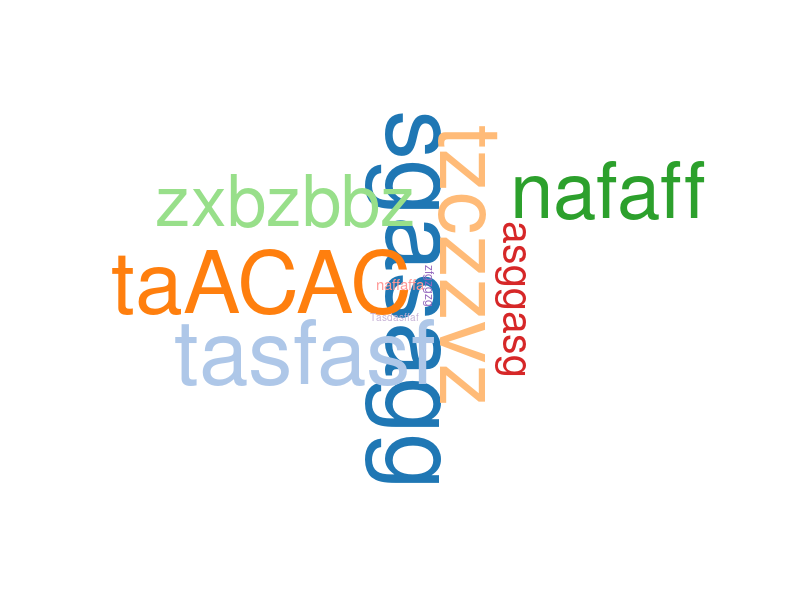
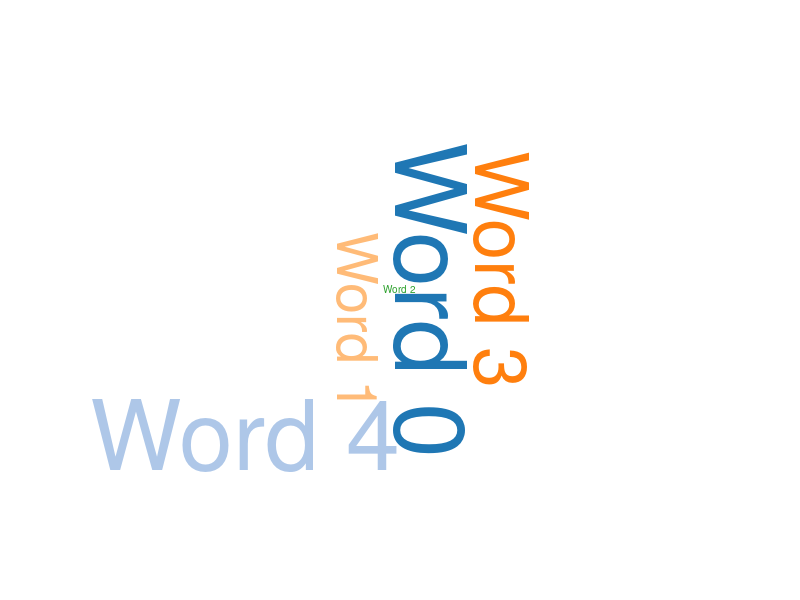
Generate clouds_controller

Changed region(s): [[0.0938, 0.18, 0.875, 0.81]]

diff --git a/app/controllers/votes_controller.rb b/app/controllers/votes_controller.rb
@@ -5,8 +5,8 @@ class VotesController < ApplicationController
   def new
     return redirect_to root_path if Quote.count < 2
 
-    quote_1 = Quote.order('RANDOM()').first
-    quote_2 = Quote.where.not(id: quote_1.id).order('RANDOM()').first
+    quote_1 = current_user.quotes.order('RANDOM()').first
+    quote_2 = current_user.quotes.where.not(id: quote_1.id).order('RANDOM()').first
 
     @visits = (cookies[:visits] || 0).to_i
     if @visits = (cookies[:visits] || 0).to_i >= 4
@@ -14,7 +14,7 @@ class VotesController < ApplicationController
     else @visits = (cookies[:visits] || 0).to_i
     end
 
-    @quotes = Quote.all.order(:score).limit(10)
+    @quotes = current_user.quotes.order(:score).limit(10)
 
     @vote_form_left = VoteForm.new(preferred_quote_id: quote_1.id, other_quote_id: quote_2.id)
     @vote_form_right = VoteForm.new(preferred_quote_id: quote_2.id, other_quote_id: quote_1.id)

diff --git a/app/jobs/user_mailer_job.rb b/app/jobs/user_mailer_job.rb
@@ -3,26 +3,7 @@ class UserMailerJob < ApplicationJob
 
   def perform(*args)
     User.find_each do |user|
-      user_quotes = Quote.all.where(user_id: user.id)
-      if user_quotes.count > 2
-        words = user_quotes.
-          order(:score).
-          limit(2).
-          pluck(:label).
-          map { |word| [word, rand(45)] }
-        @quotes = user_quotes.
-          order(:score).
-          limit(2)
-        cloud = MagicCloud::Cloud.new(words, rotate: :free, scale: :sqrt)
-        img = cloud.draw(960, 600)
-        img.write('app/assets/images/cloud.png')
-        if File.exists?('app/assets/images/cloud.png')
-          UserMailer.daily_cloud_image.deliver_now
-        end
-      end
+      SendCloudImage.call(user)
     end
   end
-
-  # CatfactMailer.with(user: user).daily_catfact.deliver_now
-
 end

diff --git a/app/services/send_cloud_image.rb b/app/services/send_cloud_image.rb
@@ -1,0 +1,43 @@
+class SendCloudImage < Patterns::Service
+  MINIMUM_USER_QUOTES = 2
+
+  def initialize(user)
+    @user = user
+  end
+
+  def call
+    if user_quotes.count > MINIMUM_USER_QUOTES
+      create_cloud_image &&
+        send_email
+    end
+  end
+
+  private
+
+  attr_reader :user
+
+  def create_cloud_image
+    cloud_image.write('app/assets/images/cloud.png')
+  end
+
+  def send_email
+    UserMailer.with(user: user).daily_cloud_image.deliver_now
+  end
+
+  def user_words
+    user_quotes.
+      order(:score).
+      limit(10).
+      pluck(:label).
+      map { |word| [word, rand(45)] }
+  end
+
+  def cloud_image
+   MagicCloud::Cloud.new(user_words, rotate: :free, scale: :sqrt).draw(960, 600)
+  end
+
+  # Memoization
+  def user_quotes
+    @user_quotes ||= user.quotes
+  end
+end

diff --git a/app/controllers/clouds_controller.rb b/app/controllers/clouds_controller.rb
@@ -2,7 +2,8 @@ class CloudsController < ApplicationController
   before_action :authenticate_user!
 
   def new
-    words_with_rotates = Quote.
+    words_with_rotates = current_user.
+      quotes.
       order(:score).
       limit(10).
       pluck(:label).
@@ -14,7 +15,7 @@ class CloudsController < ApplicationController
     img = cloud.draw(800, 600) #default height/width
     img.write(Rails.root.join('app/assets/images/cloud.png'))
 
-    @quotes = Quote.order(:score).limit(10)
+    @quotes = current_user.quotes.order(:score).limit(10)
 
   end
 end

diff --git a/db/seeds.rb b/db/seeds.rb
@@ -5,3 +5,8 @@
 #
 #   movies = Movie.create([{ name: 'Star Wars' }, { name: 'Lord of the Rings' }])
 #   Character.create(name: 'Luke', movie: movies.first)
+5.times do |i|
+  user = User.create(email: "user-#{i}@example.com", password: 'Secret99')
+
+  5.times { |i| Quote.create(label: "Word #{i}", user: user, score: i + 1) }
+end

diff --git a/config/application.rb b/config/application.rb
@@ -10,6 +10,7 @@ module IdeaCloud
   class Application < Rails::Application
     # Initialize configuration defaults for originally generated Rails version.
     config.load_defaults 6.1
+    config.autoload_paths += %W(#{config.root}/app/services)
 
     # Configuration for the application, engines, and railties goes here.
     #

diff --git a/config/routes.rb b/config/routes.rb
@@ -8,6 +8,7 @@ Rails.application.routes.draw do
   resources :quotes, only: [:new, :create, :destroy]
   resource :vote, only: [:new, :create]
   resources :clouds, only: [:new]
+  resource :send_cloud_image_mail, controller: 'send_cloud_image_mail', only: :create
 
   root to: 'quotes#new'
 end

diff --git a/app/controllers/send_cloud_image_mail_controller.rb b/app/controllers/send_cloud_image_mail_controller.rb
@@ -1,0 +1,9 @@
+class SendCloudImageMailController < ApplicationController
+  before_action :authenticate_user!
+
+  def create
+    SendCloudImage.call(current_user)
+
+    redirect_back(fallback_location: root_path, flash: { success: 'Mail successfuly sent' })
+  end
+end

diff --git a/app/mailers/user_mailer.rb b/app/mailers/user_mailer.rb
@@ -2,6 +2,7 @@ class UserMailer < ApplicationMailer
   def daily_cloud_image
     attachments.inline['cloud.png'] = File.read('app/assets/images/cloud.png')
     @user = params[:user]
+
     mail(to: @user.email, subject: "Cloud of Top10 quotes!")
   end
 end

diff --git a/app/services/make_cloud_image.rb b/app/services/make_cloud_image.rb
@@ -1,0 +1,1 @@
+class MakeCloudImage < Patterns::Service
